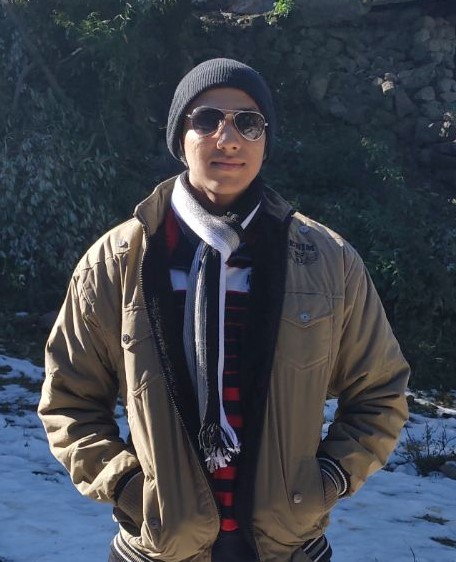
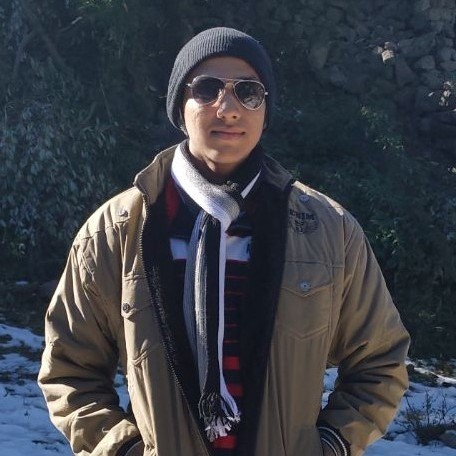
Fixed team images and added faculties

diff --git a/team.html b/team.html
@@ -51,11 +51,27 @@
       </div>
       
       <section class="team" style="margin: 1%; margin-bottom: 3%;">
+        <h1 class="text-center">Faculty Co-ordinators</h1>
+        <div class="row" style="margin-top:3%;">
+          <div class="col-lg-6" style="text-align: center;">
+              <img src="./Images/pic.png" class="mx-auto rounded-circle" style="vertical-align:auto;width: 13rem;">
+              <h5 style="margin-top: 2%;">Prof. Swati Mali</h5>
+              <a href="https://www.github.com/arghyadeep99" target="_blank"><i class="fab fa-github-square fa-2x" style="color : #330066"></i></a>  &nbsp; &nbsp;  <a href="https://www.instagram.com/third_root_of_quadratic_eqn" target="_blank"><i class="fab fa-instagram fa-2x" style="color :#330066"></i></a>  &nbsp; &nbsp;  <a href="https://www.linkedin.com/in/arghyadeep-das/" target="_blank"><i class="fab fa-linkedin fa-2x" style="color :#330066"></i></a>
+
+          </div>
+
+          <div class="col-lg-6" style="text-align: center;">
+              <img src="./Images/pic.png" class="mx-auto rounded-circle" style="width: 13rem; height: 13rem;">
+              <h5 style="margin-top: 2%;">Prof. Vaibhav Vasani</h5>
+              <a href="#" target="_blank"><i class="fab fa-github-square fa-2x" style="color : #330066"></i></a>  &nbsp; &nbsp;  <a href=#" target="_blank"><i class="fab fa-instagram fa-2x" style="color :#330066"></i></a>  &nbsp; &nbsp;  <a href="#" target="_blank"><i class="fab fa-linkedin fa-2x" style="color :#330066"></i></a>
+            </div>
+        </div>
+
         <h1 class="text-center">Lead Mentors</h1>
         <div class="row" style="margin-top:3%;">
           <div class="col-lg-6" style="text-align: center;">
               <img src="./Images/Arghyadeep.jpg" class="mx-auto rounded-circle" style="vertical-align:auto;width: 13rem;">
-              <h5 style="margin-top: 2%;">Arghyadeep Das</h5>
+              <h5 style="margin-top: 2%;"><b>Arghyadeep Das</b></h5>
               <a href="https://www.github.com/arghyadeep99" target="_blank"><i class="fab fa-github-square fa-2x" style="color : #330066"></i></a>  &nbsp; &nbsp;  <a href="https://www.instagram.com/third_root_of_quadratic_eqn" target="_blank"><i class="fab fa-instagram fa-2x" style="color :#330066"></i></a>  &nbsp; &nbsp;  <a href="https://www.linkedin.com/in/arghyadeep-das/" target="_blank"><i class="fab fa-linkedin fa-2x" style="color :#330066"></i></a>
 
           </div>
@@ -89,7 +105,7 @@
 
           <h1 class="text-center" style="margin:3%;">AI Promoter</h1>
           <div class="col-lg-12" style="text-align: center;">
-            <img src="./Images/bg.PNG" class="mx-auto rounded-circle" style="width: 13rem; height: 13rem;">
+            <img src="./Images/Aayush.jpg" class="mx-auto rounded-circle" style="width: 13rem; height: 13rem;">
             <h5 style="margin-top: 2%;">Aayush Chheda</h5>
             <a href="#"><i class="fab fa-github-square fa-2x" style="color : #330066"></i></a>  &nbsp; &nbsp;  <a href=#"><i class="fab fa-instagram fa-2x" style="color :#330066"></i></a>  &nbsp; &nbsp;  <a href="#"><i class="fab fa-linkedin fa-2x" style="color :#330066"></i></a>
           </div>
